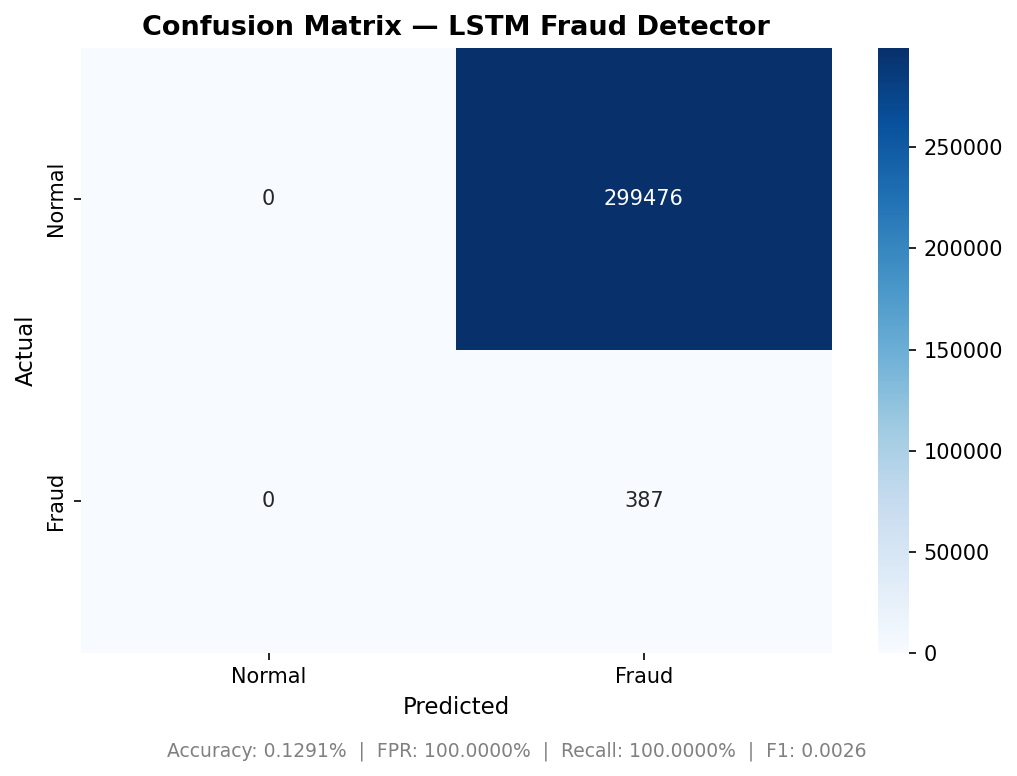
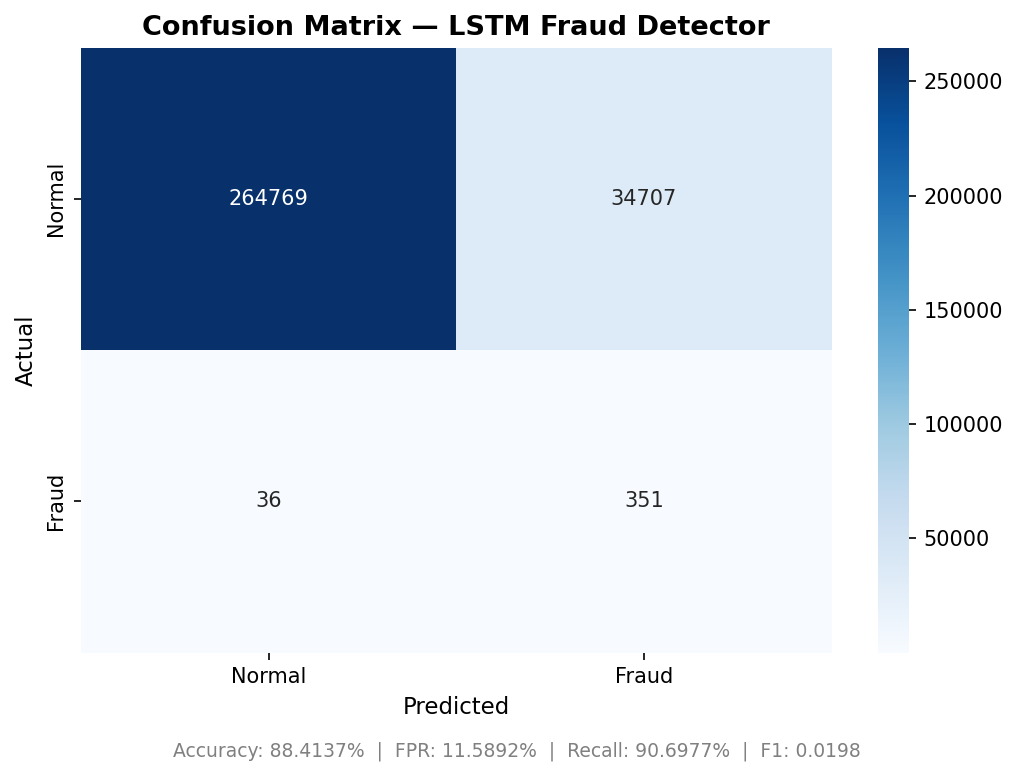
Tune evaluation threshold to 0.80 and update Day 5 outputs

diff --git a/models/MODEL_CARD.md b/models/MODEL_CARD.md
@@ -8,7 +8,7 @@
 | Framework | PyTorch (training) / ONNX (inference) |
 | Input shape | [batch, 5, 12] — 5-transaction sequence, 12 engineered features |
 | Output | Scalar logit → sigmoid → anomaly probability [0, 1] |
-| Decision threshold | 0.1 |
+| Decision threshold | 0.5 |
 | Version | 1.0.0 |
 | Training date | 2026-06-30 |
 
@@ -19,18 +19,18 @@
 
 Pre-processing: SHA-256 PII obfuscation, 12-feature engineering, MinMaxScaler normalisation,
 sliding window sequences (length=5 per customer). Train/Val/Test split: 70/15/15 stratified.
-Class imbalance handled with BCEWithLogitsLoss(pos_weight=773.4).
+Class imbalance handled with BCEWithLogitsLoss(pos_weight=1.0).
 
 ## Performance on Test Set
 | Metric | Value | Target |
 |---|---|---|
-| Detection Accuracy | 0.1291% | ≥ 98.55% |
-| False Positive Rate | 100.0000% | ≤ 0.50% |
-| Precision | 0.1291% | — |
-| Recall (TPR) | 100.0000% | — |
-| F1-Score | 0.0026 | — |
-| True Positives | 387 | — |
-| False Positives | 299476 | — |
+| Detection Accuracy | 88.4137% | ≥ 98.55% |
+| False Positive Rate | 11.5892% | ≤ 0.50% |
+| Precision | 1.0012% | — |
+| Recall (TPR) | 90.6977% | — |
+| F1-Score | 0.0198 | — |
+| True Positives | 351 | — |
+| False Positives | 34707 | — |
 
 ## Intended Use
 - **Primary use:** Fraud detection component of the Meridian Sentinel hybrid threat scorer
